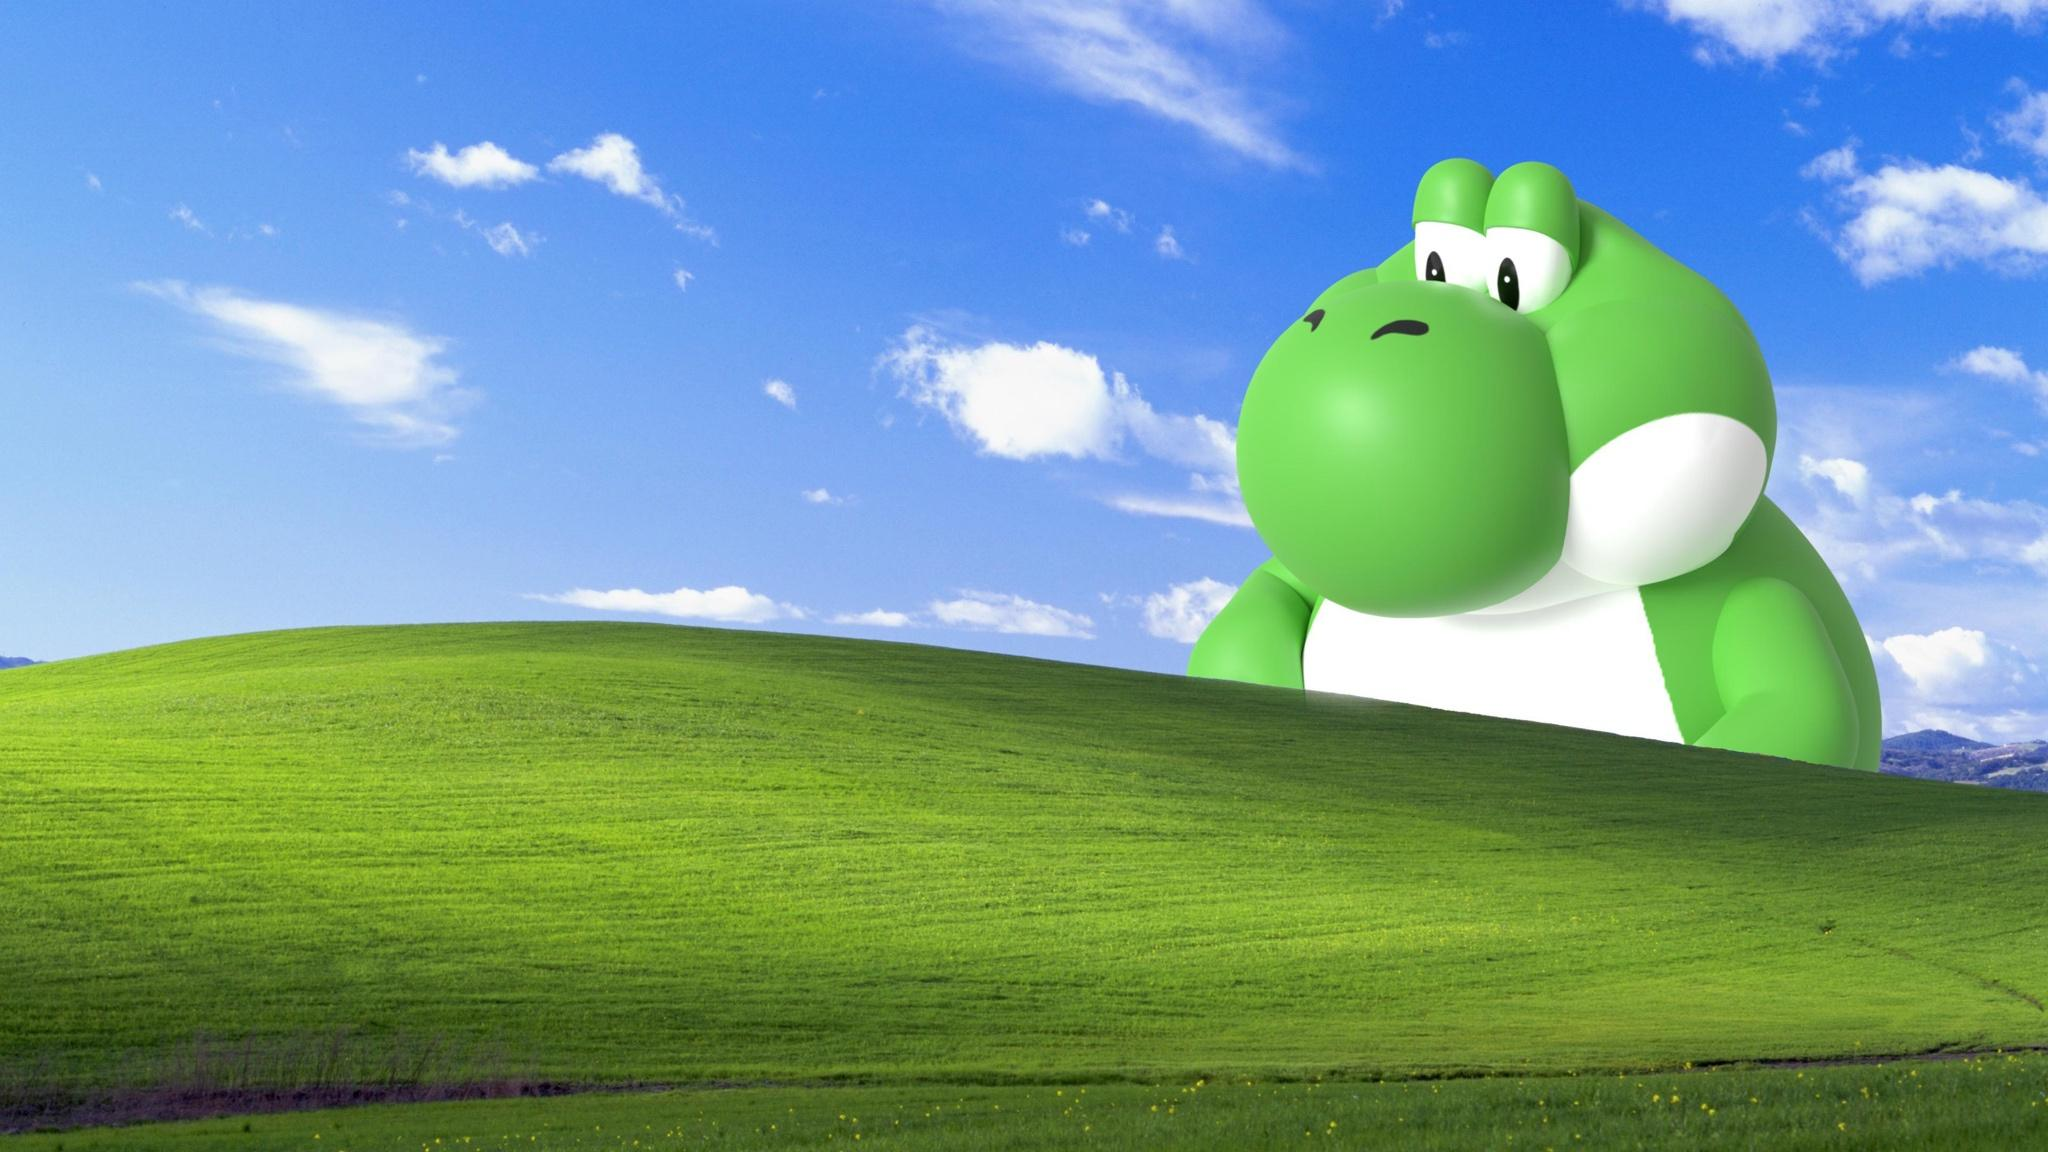
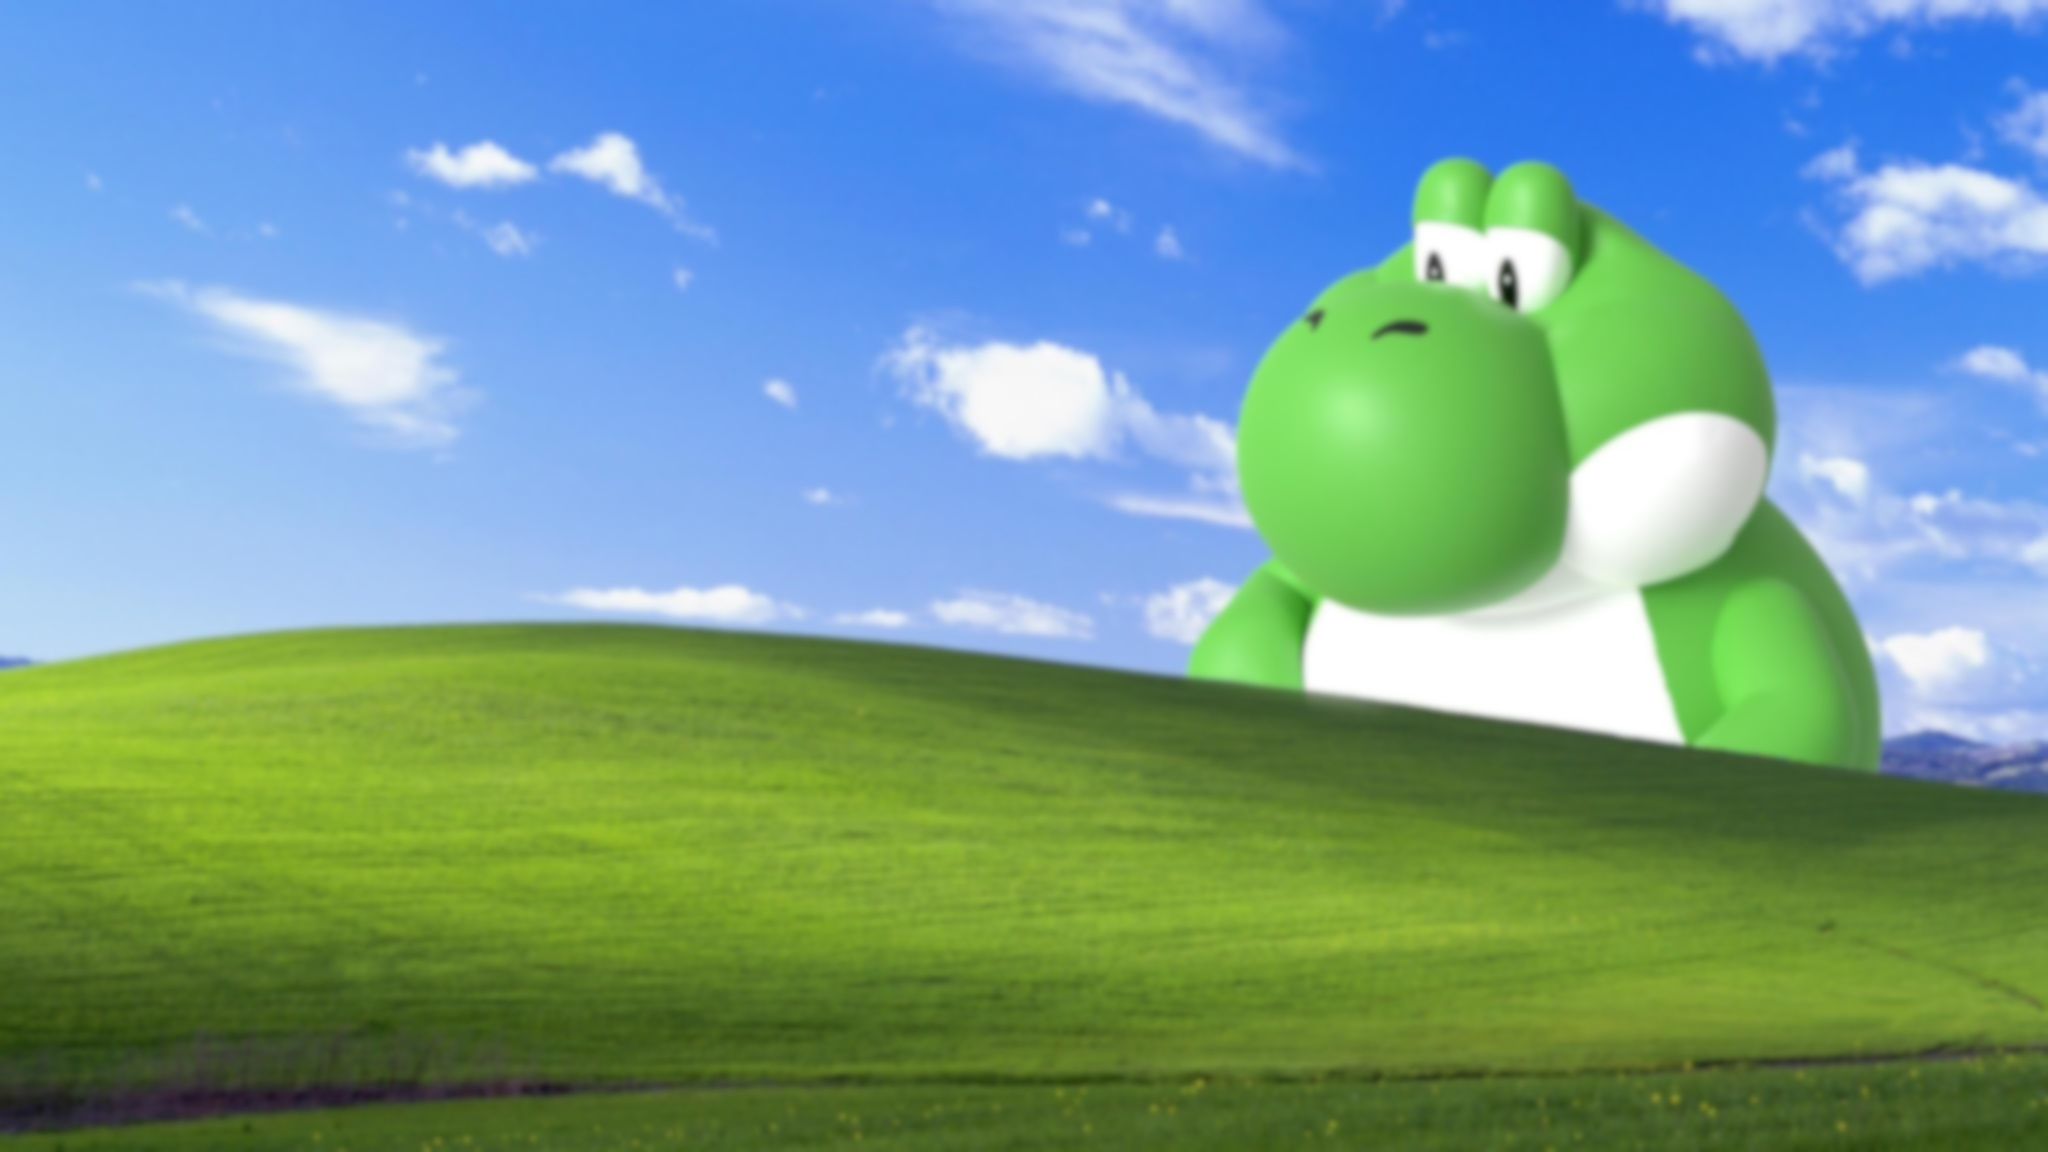
Add files via upload

diff --git a/desktop.html b/desktop.html
@@ -59,72 +59,14 @@
             display: none;
         }
 
-        .restore-text {
-            display: none;
-            position: fixed;
-            top: 50%;
-            left: 50%;
-            transform: translate(-50%, -50%);
-            font-size: 48px;
-            font-weight: bold;
-            cursor: default;
-            animation: rainbow 10s infinite, fadeIn 3s ease-in-out;
-        }
-
-        .restore-text.glow {
-            animation: rainbow 2s infinite, fadeIn 1s ease-in-out;
-        }
-
-        
-        .new-window {
-            position: fixed;
-            top: 50%;
-            left: 50%;
-            transform: translate(-50%, -50%);
-            width: 250px;
-            background: rgba(255, 255, 255, 0); 
-            border: none; 
-            border-radius: 0px;
-            box-shadow: 0 0px 0px rgba(0, 0, 0, 0.2);
-            padding: 0px;
-            cursor: default; 
-            user-select: none; 
-        }
-
-        .new-window:active {
-            cursor: default; 
-        }
-
-        .title-bar {
-            padding: 5px;
-            cursor: default;
-            background: rgba(255, 255, 255, 0); 
-            border: none; 
-        }
-
-        .window-body {
-            background: rgba(255, 255, 255, 0); 
-            padding: 0; 
-        }
-
         .window-body p {
             color: black; 
             margin: 0; 
         }
 
-        
-        .profwin {
-            background: rgba(255, 255, 255, 0); 
-            border: none; 
-            border-radius: 8px;
-            box-shadow: none; 
+        .nradar {
+            position: absolute;
         }
-
-        .profbody {
-            background: rgba(255, 255, 255, 0); 
-            padding: 16px;
-        }
-
     </style>
 </head>
 <body>
@@ -151,9 +93,9 @@ $$ | \_/ $$ |\$$$$$$  |$$ |  $$ |\$$$$$$$\ \$$$$$$$ |      $$ | \_/ $$ |$$ |  \$
                     <div class="title-bar">
                         <div class="title-bar-text rainbow-text">obey.exe</div>
                         <div class="title-bar-controls">
-                            <button aria-label="Minimize" id="minimizeBtn"></button>
-                            <button aria-label="Maximize" id="maximizeBtn"></button>
-                            <button aria-label="Close" id="closeBtn"></button>
+                            <button aria-label="Minimize" id="mainMin"></button>
+                            <button aria-label="Maximize" id="mainMax"></button>
+                            <button aria-label="Close" id="mainClose"></button>
                         </div>
                     </div>
                     <div class="window-body profbody has-space">
@@ -161,125 +103,105 @@ $$ | \_/ $$ |\$$$$$$  |$$ |  $$ |\$$$$$$$\ \$$$$$$$ |      $$ | \_/ $$ |$$ |  \$
                             <img src="./images/obey.png" style="height:120px;border-radius:5px;">
                         </a>
                         <h5 class="rainbow-text"><strong>obey</strong></h5>
-                        <p><a href="https://t.me/izintelligencezone" target="_blank" style="color: gold;" class="rainbow-text">IZ</a></p>
+                        <p style="margin-bottom:10px;"><a href="https://t.me/izintelligencezone" target="_blank" style="color: gold;" class="rainbow-text">IZ</a></p>
                         <a href="https://t.me/a22cw" style="z-index:9999!important;" target="_blank">
-                            <img style="height:25px;margin-top:-50px;" src="./icon/telegram.png">
+                            <img style="height:25px;margin-top:-20px;" src="./icon/telegram.png">
                         </a>
                     </div>
                 </div>
             </div>
         </div>
     </div>
-
-    <div id="restoreText" class="restore-text glow rainbow-text">obey</div>
     
     <div class="audwin" style="max-width: 650px">
-      <div class="audio-controls">
-        <p style="font-size:13px;margin-bottom:5px;" class="rainbow-text">Now Playing:</p>
-          <div id="songInfo" class="text-center rainbow-text">
-              <div id="artist">Artist</div>&nbsp;-&nbsp;<div id="songTitle">Song</div>
-          </div>
-          <div class="controls" style="margin-top:10px;margin-bottom:7px;">
-              <a onclick="previousAudio()" style="margin-right:10px;"><img src="./icon/back.png"></a>
-              <a id="playPauseButton" onclick="togglePlayPause()" style="margin-right:10px;"><img src="./icon/pause.png"></a>
-              <a onclick="nextAudio()"><img src="./icon/next.png"></a>
-          </div>
-      </div>
-    <audio id="audio"></audio>
-    <script src="./js/mzik.js"></script>
+        <div class="audio-controls">
+            <p style="font-size:13px;margin-bottom:5px;" class="rainbow-text">Now Playing:</p>
+            <div id="songInfo" class="text-center rainbow-text">
+                <div id="artist">Artist</div>&nbsp;-&nbsp;<div id="songTitle">Song</div>
+            </div>
+            <div class="controls" style="margin-top:10px;margin-bottom:7px;">
+                <a onclick="previousAudio()" style="margin-right:10px;"><img src="./icon/back.png"></a>
+                <a id="playPauseButton" onclick="togglePlayPause()" style="margin-right:10px;"><img src="./icon/pause.png"></a>
+                <a onclick="nextAudio()"><img src="./icon/next.png"></a>
+            </div>
+        </div>
+        <audio id="audio"></audio>
+        <script src="./js/mzik.js"></script>
 
-    
-    <div id="newWindow" class="window new-window hidden">
-      <div class="title-bar">
-        <div class="title-bar-text">
-          nigger.exe
+        <div class="window glass active nradar" style="max-width: 300px; display:none;">
+            <div class="title-bar nDrag">
+                <div class="title-bar-text">Nigger Radar.exe</div>
+            </div>
+            <div class="window-body has-space">
+                <p style="margin-top:5px;">are you a nigger?</p>
+                <img src="./icon/kfc.png" style="height:70px;"><img src="./icon/kfc.png" style="height:70px;"><img src="./icon/kfc.png" style="height:70px;">
+                <section class="field-row" style="justify-content: flex-end; margin-top:10px;">
+                    <button class="default nBtn">Yes</button>
+                    <button class="nBtn">Yes</button>
+                </section>
+            </div>
         </div>
-        <div class="title-bar-controls">
-        </div>
-      </div>
-      <div class="window-body has-space">
-        <p>are you a nigger?</p>
-        <section class="field-row" style="justify-content: flex-end">
-          <button id="okButton" class="default">Yes</button>
-          <button id="cancelButton">Yes</button>
-        </section>
-      </div>
     </div>
 
     <script>
-        
-        function showNewWindow() {
-            document.getElementById('newWindow').classList.remove('hidden');
-        }
+        document.addEventListener('DOMContentLoaded', () => {
+            const nradar = document.querySelector('.nradar');
+            
+            document.getElementById('mainMin').addEventListener('click', () => {
+                nradar.style.display = 'block';
+            });
 
-       
-        function hideNewWindow() {
-            document.getElementById('newWindow').classList.add('hidden');
-        }
+            document.getElementById('mainMax').addEventListener('click', () => {
+                nradar.style.display = 'block';
+            });
 
-        
-        document.getElementById('minimizeBtn').addEventListener('click', function() {
-            showNewWindow();
-        });
+            document.getElementById('mainClose').addEventListener('click', () => {
+                nradar.style.display = 'block';
+            });
 
-        document.getElementById('maximizeBtn').addEventListener('click', function() {
-            showNewWindow();
-        });
+            document.querySelectorAll('.nBtn').forEach(button => {
+                button.addEventListener('click', () => {
+                    nradar.style.display = 'none';
+                });
+            });
 
-        document.getElementById('closeBtn').addEventListener('click', function() {
-            showNewWindow();
-        });
+            dragElement(document.querySelector('.nradar'));
 
-        
-        document.getElementById('okButton').addEventListener('click', function() {
-            hideNewWindow();
-        });
+            function dragElement(elmnt) {
+                let pos1 = 0, pos2 = 0, pos3 = 0, pos4 = 0;
 
-        document.getElementById('cancelButton').addEventListener('click', function() {
-            hideNewWindow();
-        });
+                const header = elmnt.querySelector('.title-bar.nDrag');
+                if (header) {
+                    header.onmousedown = dragMouseDown;
+                } else {
+                    elmnt.onmousedown = dragMouseDown;
+                }
 
-        
-        document.getElementById('restoreText').addEventListener('click', function() {
-            document.getElementById('window').style.display = 'block';
-            document.getElementById('restoreText').style.display = 'none';
-        });
+                function dragMouseDown(e) {
+                    e = e || window.event;
+                    e.preventDefault();
+                    pos3 = e.clientX;
+                    pos4 = e.clientY;
+                    document.onmouseup = closeDragElement;
+                    document.onmousemove = elementDrag;
+                }
 
-        
-        document.addEventListener('fullscreenchange', function() {
-            if (document.fullscreenElement) {
-                showNewWindow();
+                function elementDrag(e) {
+                    e = e || window.event;
+                    e.preventDefault();
+                    pos1 = pos3 - e.clientX;
+                    pos2 = pos4 - e.clientY;
+                    pos3 = e.clientX;
+                    pos4 = e.clientY;
+                    elmnt.style.top = (elmnt.offsetTop - pos2) + "px";
+                    elmnt.style.left = (elmnt.offsetLeft - pos1) + "px";
+                }
+
+                function closeDragElement() {
+                    document.onmouseup = null;
+                    document.onmousemove = null;
+                }
             }
-        });
-
-        
-        const newWindow = document.getElementById('newWindow');
-        const titleBar = newWindow.querySelector('.title-bar');
-
-        let isDragging = false;
-        let startX, startY, startLeft, startTop;
-
-        titleBar.addEventListener('mousedown', (e) => {
-            isDragging = true;
-            startX = e.clientX;
-            startY = e.clientY;
-            startLeft = newWindow.offsetLeft;
-            startTop = newWindow.offsetTop;
-            document.body.style.cursor = 'default';
-        });
-
-        document.addEventListener('mousemove', (e) => {
-            if (isDragging) {
-                const deltaX = e.clientX - startX;
-                const deltaY = e.clientY - startY;
-                newWindow.style.left = `${startLeft + deltaX}px`;
-                newWindow.style.top = `${startTop + deltaY}px`;
-            }
-        });
-
-        document.addEventListener('mouseup', () => {
-            isDragging = false;
-            document.body.style.cursor = 'default';
         });
     </script>
 </body>

diff --git a/css/style.css b/css/style.css
@@ -11,7 +11,6 @@ body {
     background-repeat: no-repeat;
     background-attachment: fixed; 
     background-position: center;
-    backdrop-filter: blur(3px);
     overflow-y:hidden;
     overflow-x:hidden;
     background-color:black;
@@ -25,8 +24,15 @@ body {
     background-repeat: no-repeat;
     background-attachment: fixed; 
     background-position: center;
-    backdrop-filter: blur(10px);
     height:223px;
+}
+.nradar .window-body {
+    background-image: url('../images/bg.jpeg');
+    background-color:black!important;
+    background-size: cover;
+    background-repeat: no-repeat;
+    background-attachment: fixed; 
+    background-position: center;
 }
 .profbody h5 {
     font-size:20px; 
@@ -69,7 +75,6 @@ body {
     background-repeat: no-repeat;
     background-attachment: fixed; 
     background-position: center;
-    backdrop-filter: blur(10px);
 }
 
 #overlays {
